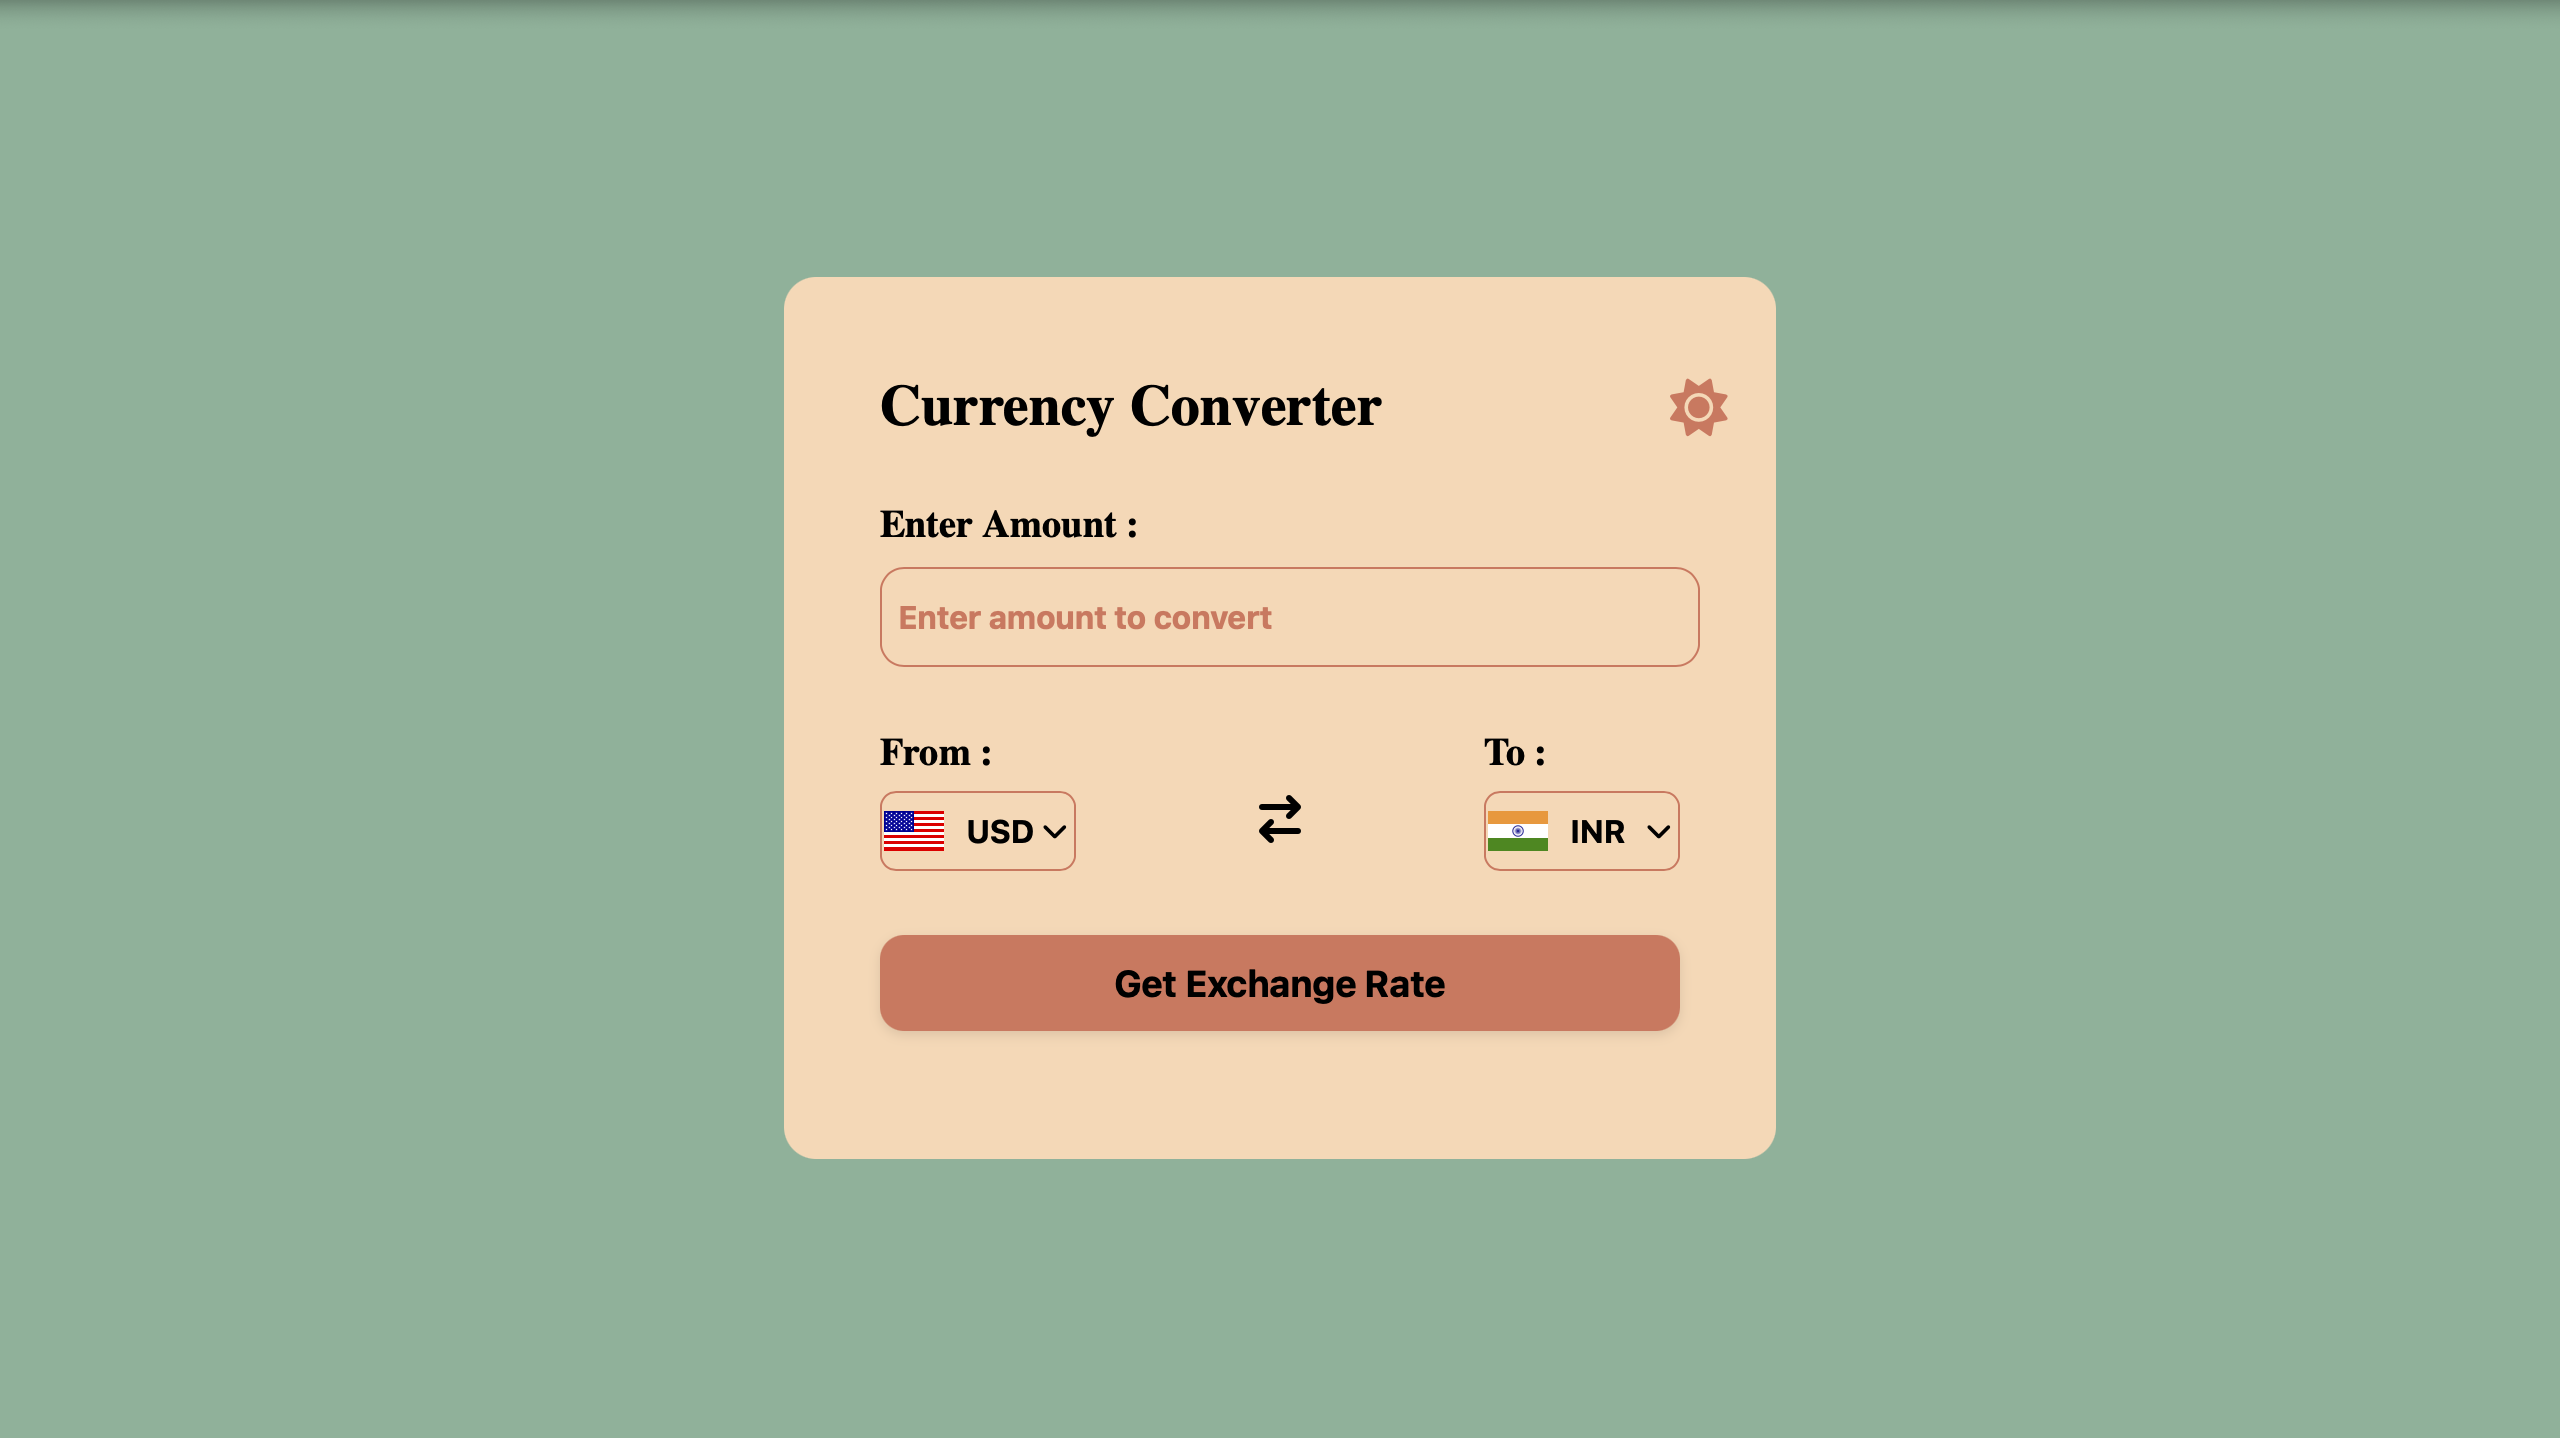
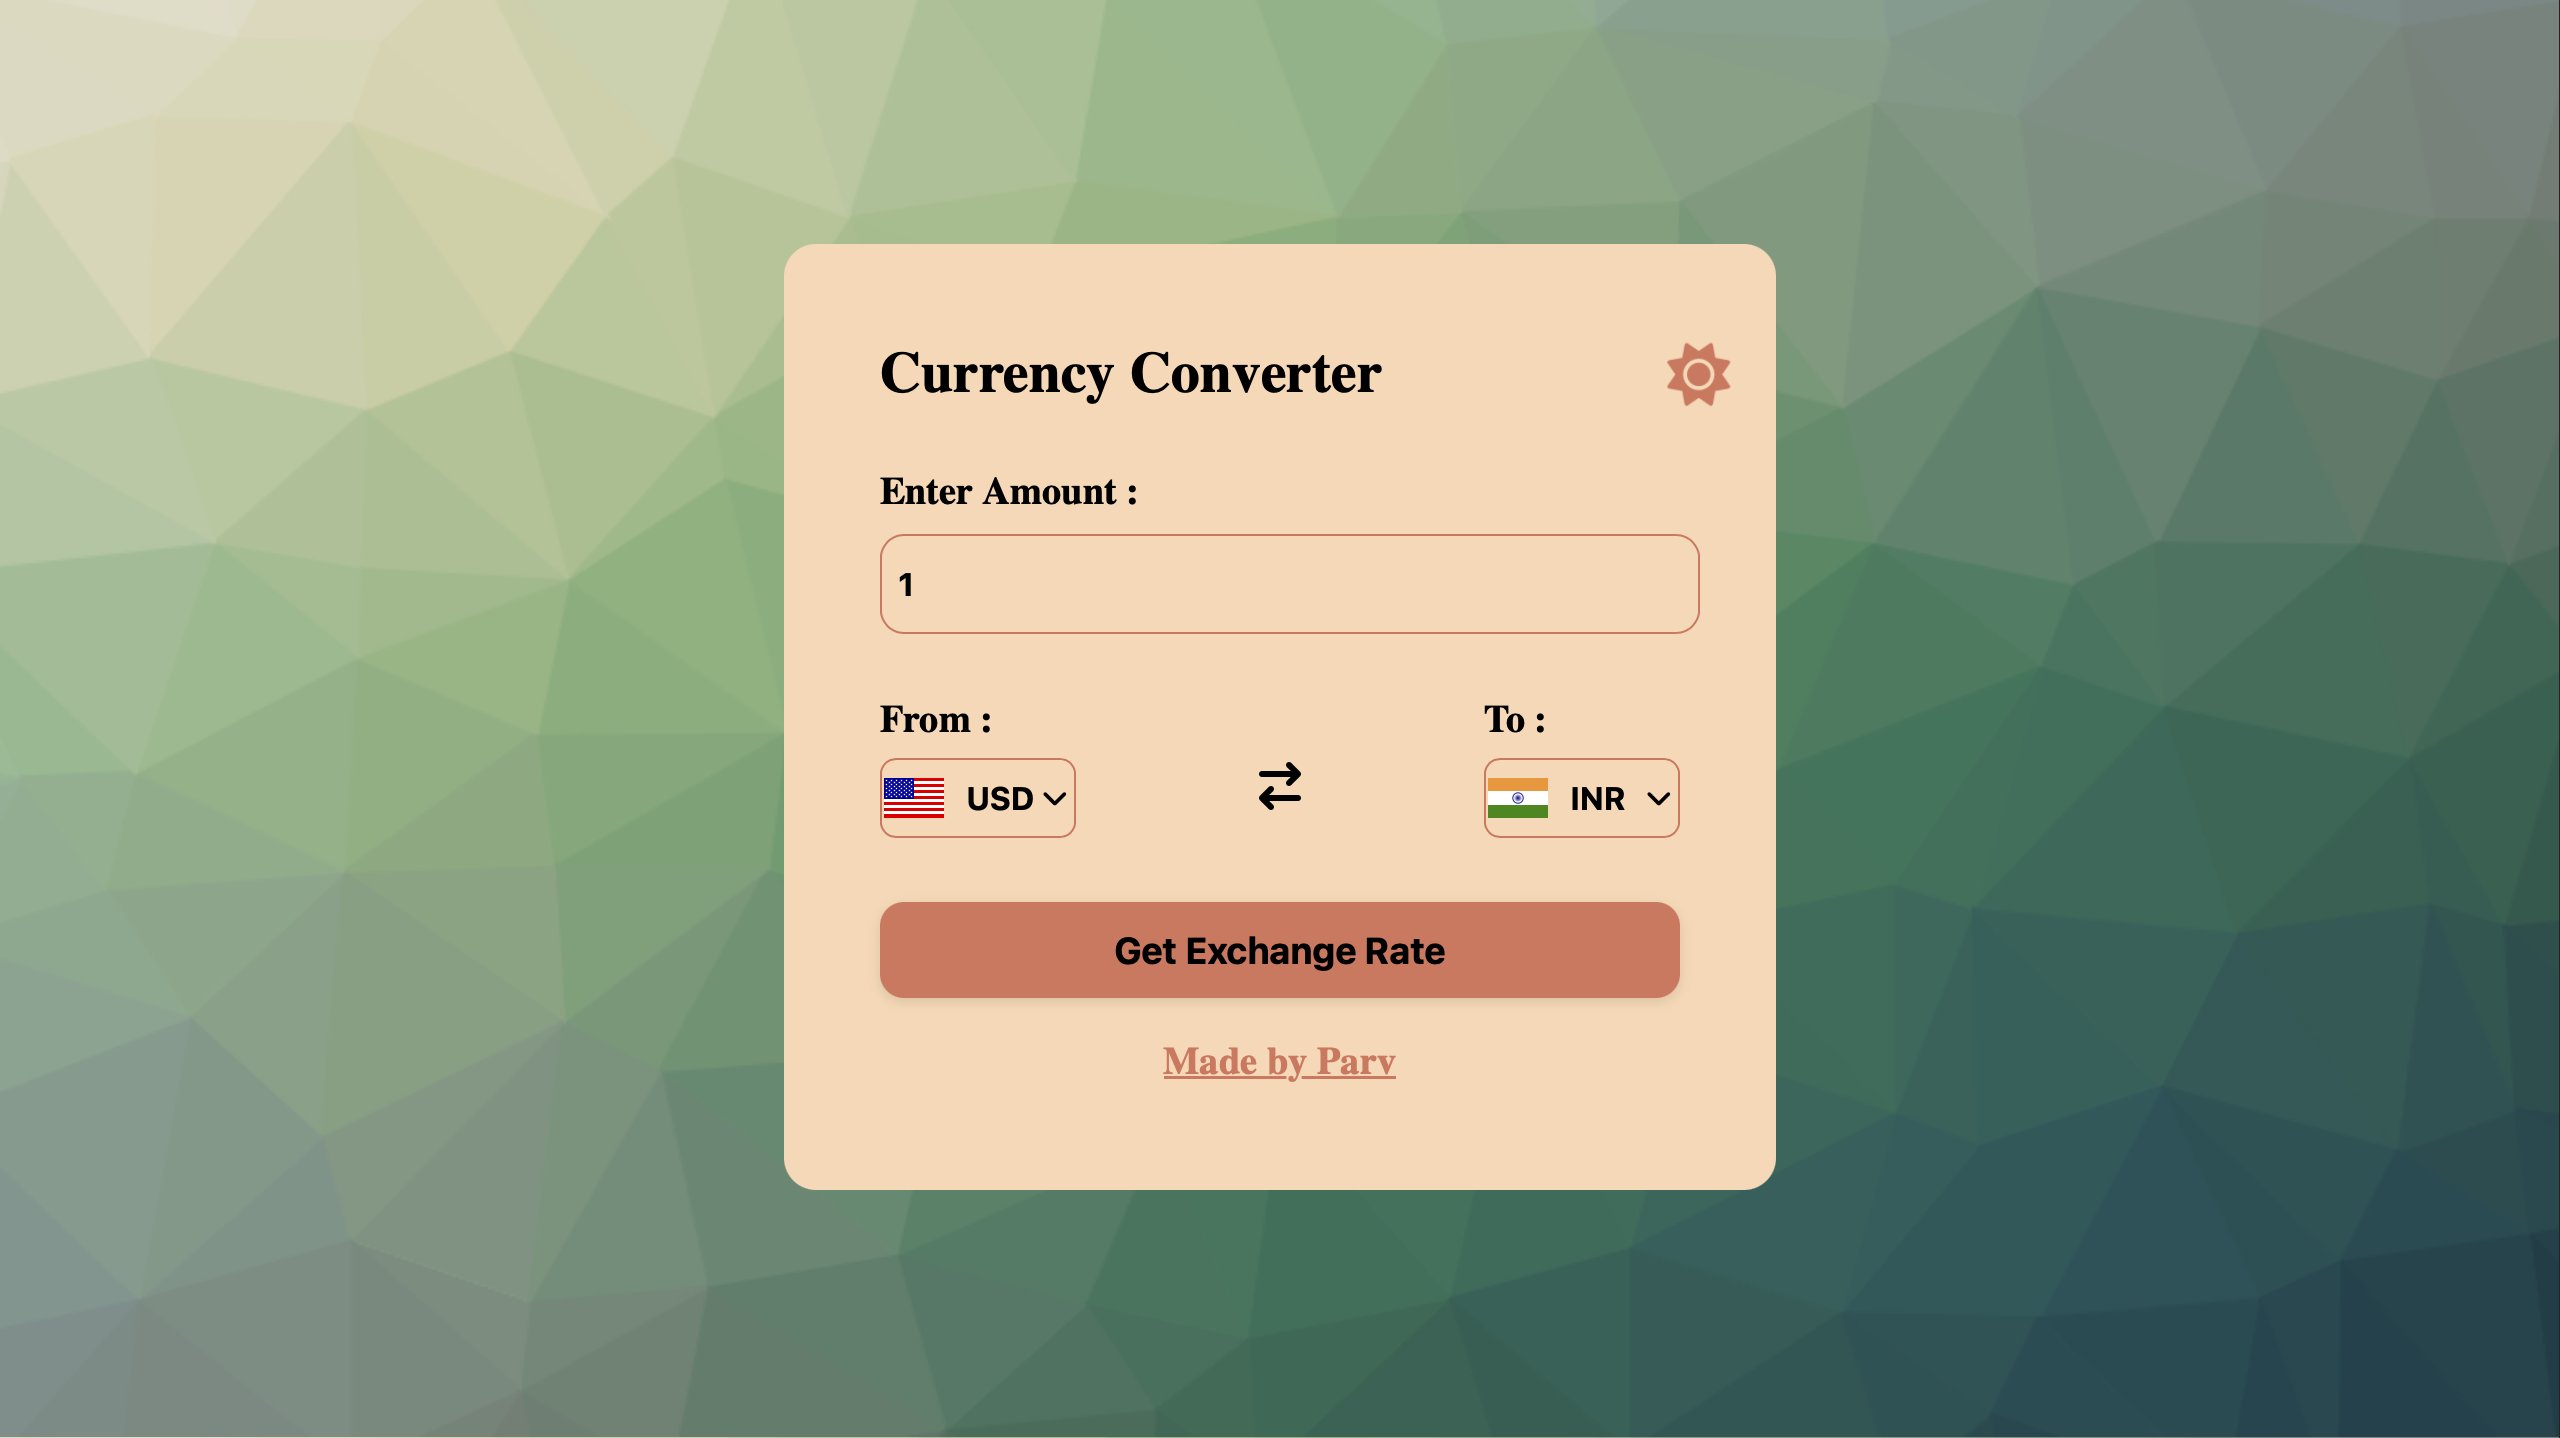
Update UI

diff --git a/styles.css b/styles.css
@@ -319,6 +319,10 @@ body.dark-theme .footer-link:hover {
 
 /* Mobile Devices */
 @media (max-width: 768px) {
+  body{
+  background:url("Background\ Images/light-mode-mobile.png");
+  }
+
   .container {
     padding: 1.5rem;
     max-width: 90%;
@@ -345,6 +349,11 @@ body.dark-theme .footer-link:hover {
 
   .msg {
     font-size: 1.2rem;
+  }
+
+   body.dark-theme {
+    background:url("Background\ Images/dark-mode-mobile.png");
+    background-size: cover;
   }
 }
 

diff --git a/readme.md b/readme.md
@@ -1,4 +1,4 @@
-## 💶 Currency Converter
+##  Currency Converter
 
 Effortlessly convert currencies in real time with a smooth, flag-powered interface.  
 This sleek, responsive web app brings you live exchange rates, an elegant light/dark theme toggle, and a polished user experience — right in your browser.
@@ -9,24 +9,24 @@ This sleek, responsive web app brings you live exchange rates, an elegant light/
 </p>
 
 
-## ✨ Features
+##  Features
 
-- 🔁 Convert between over 150 currencies
-- 🌐 Live exchange rates using the [Fawaz Ahmed Currency API](https://github.com/fawazahmed0/currency-api)
-- 📱 Fully responsive design for mobile and tablets
-- 🌙 Light/Dark theme toggle
-- 🚫 Input validation with user-friendly messages
-- 🏳 Country flags update dynamically based on selected currency
-
----
-
-## 🔗 Live Demo
-
-🚀 [Try the Currency Converter](https://parvninama.github.io/currency-converter/)
+-  Convert between over 150 currencies
+-  Live exchange rates using the [Fawaz Ahmed Currency API](https://github.com/fawazahmed0/currency-api)
+-  Fully responsive design for mobile and tablets
+-  Light/Dark theme toggle
+-  Input validation with user-friendly messages
+-  Country flags update dynamically based on selected currency
 
 ---
 
-## 🛠 Built With
+##  Live Demo
+
+ [Try the Currency Converter](https://parvninama.github.io/currency-converter/)
+
+---
+
+##  Built With
 
 - **HTML5**
 - **CSS3**
@@ -37,7 +37,7 @@ This sleek, responsive web app brings you live exchange rates, an elegant light/
 
 ---
 
-## 📁 Folder Structure
+##  Folder Structure
 
 ```
 currency-converter/
@@ -51,7 +51,7 @@ currency-converter/
 ```
 ---
 
-## 🧠 How It Works
+##  How It Works
 
 1. User enters an amount and selects currencies
 2. Live exchange rates are fetched via the API
@@ -60,15 +60,15 @@ currency-converter/
 
 ---
 
-## 💻 Desktop View 
+##  Desktop View 
 
-### ☀ Light Mode
+###  Light Mode
 ![Desktop Light](./screenshots/light-theme.png)
 
-### 🌙 Dark Mode
+###  Dark Mode
 ![Dark Theme](./screenshots/dark-theme.png)
 
-## 📱 Mobile View (Light & Dark Modes)
+##  Mobile View (Light & Dark Modes)
 
 <table>
   <tr>
@@ -84,13 +84,13 @@ currency-converter/
 
 ---
 
-## ♿ Accessibility
+##  Accessibility
 
 - Supports full **keyboard navigation** using the `Tab` key
 - Custom **focus styles** (outline & glow) improve visibility
 - Works in both **light and dark mode**
 
-## 🔄 Tab Focus in Action
+##  Tab Focus in Action
 
 <table>
   <tr>
@@ -105,13 +105,13 @@ currency-converter/
 
 ---
 
-## 📜 License
+##  License
 
 This project is licensed under the **MIT License** — feel free to use, modify, and share!
 
 ---
 
-## 🤝 Connect
+##  Connect
 
 Feel free to check out more of my work on  
 👉 [Parv Ninama](https://github.com/parvninama)
